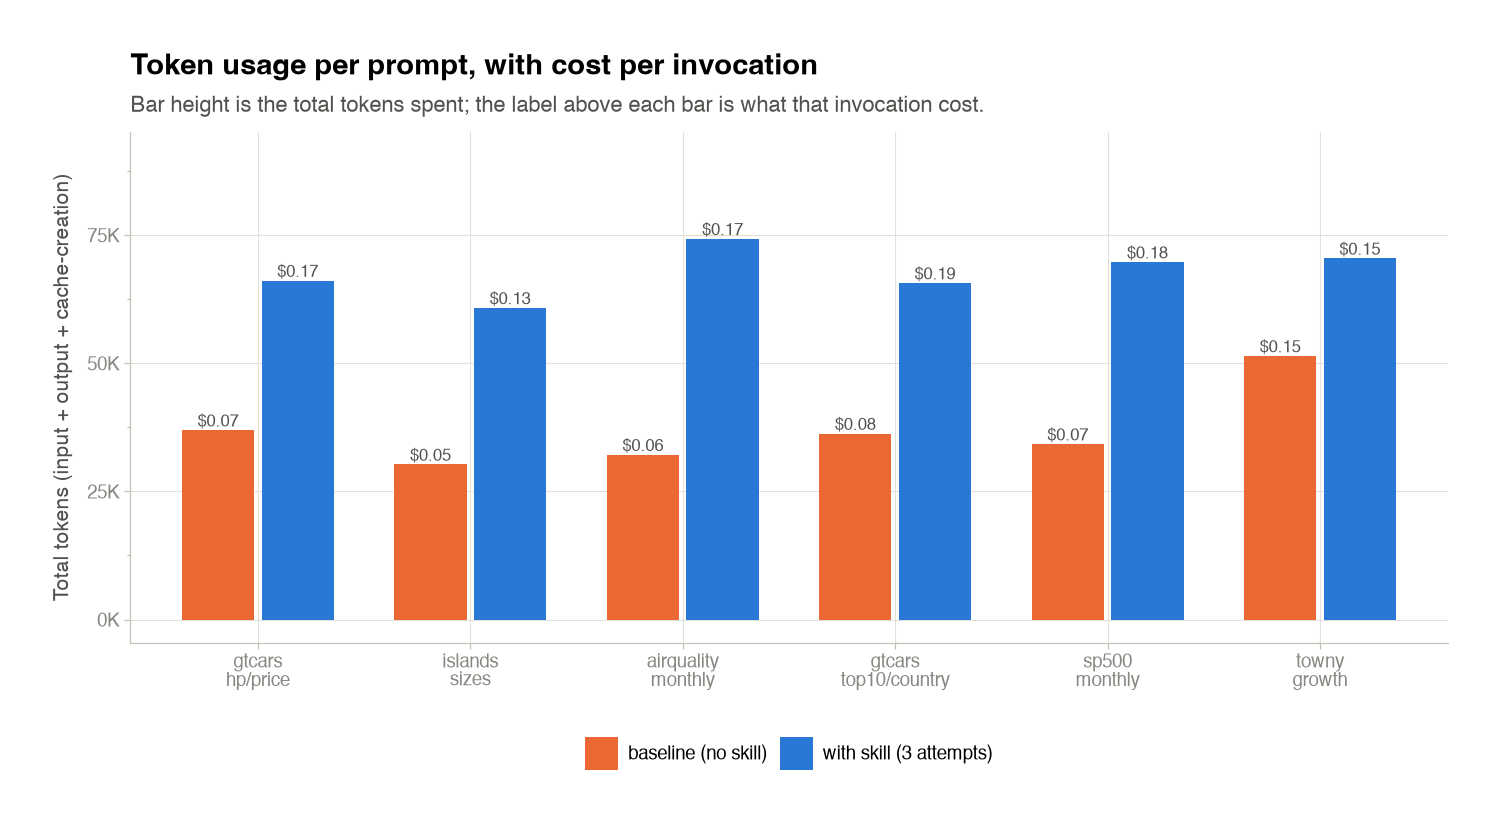
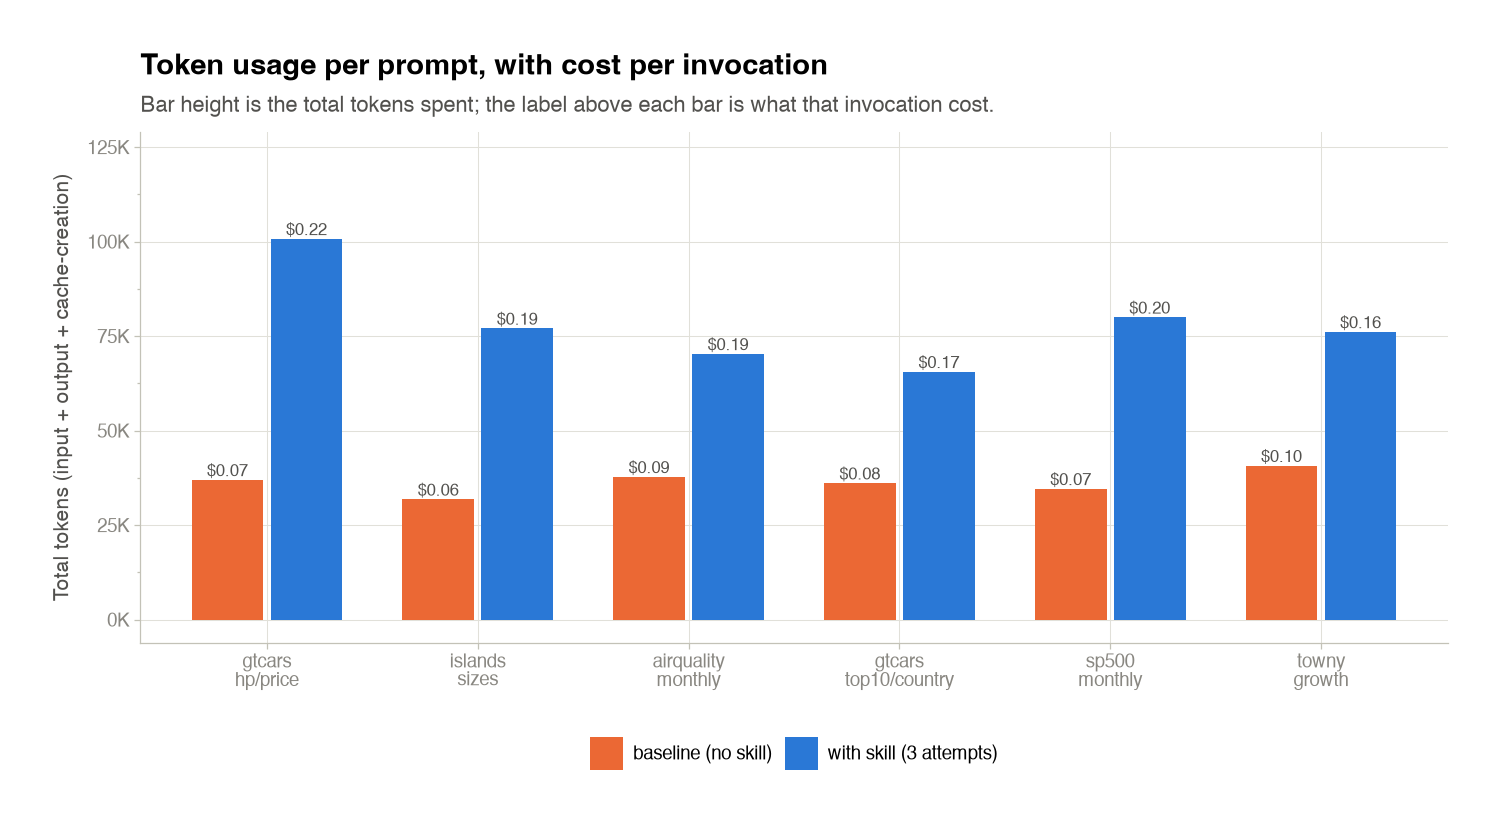
restore(published-metrics): revert to originals from user's backup
Restores the pre-drift plot PNGs and SUMMARY.md that I inadvertently
overwrote when I ran metrics_plots.render_all against the on-disk
eval-results-demo/ tree earlier in this branch.

What went wrong
---------------

metrics_plots.render_all -> render_skill -> collect_metrics rebuilds
metrics.json by rescoring every candidate table.py against ground truth
via runner.comparator.compare(). The candidate table.py files were the
originals (unchanged), but on this branch (which is based on origin/main
= f3c8758), the ground truths and comparator have moved on:

- 69d1afb — Redesign the 6 ground truths to match author-specified
  table conventions
- d6655d6 — Generalize the comparator: promote now-universal house
  rules to fixed checks
- 22a2dd1 — fix(comparator): replace exact-keyword caption check with
  a lenient one

So the same unchanged candidate outputs now score against a stricter,
different rubric. Result: house/prose/scripts dropped from ~82% to ~33%.
The drop was not caused by the skills getting worse — it was caused by
me passing old sample outputs through a rescoring pipeline that used
today's comparator + ground truths.

I should have used the backup's cached metrics.json values without
touching the on-disk demo tree.

What this commit does
---------------------

- Copies 8 plot PNGs from the user's local backup
  (~/Downloads/eval-results copy/{creator,house,prose,scripts}/plots/
  {usage,comparator_score}.png) into published-metrics/, renaming
[…]

diff --git a/published-metrics/SUMMARY.md b/published-metrics/SUMMARY.md
@@ -8,20 +8,20 @@ Averaged across every prompt and every invocation in this evaluation.
 
 | Skill | Score (with skill) | Score (baseline) | Lift | Cost / invocation (with skill) | Cost / invocation (baseline) |
 | --- | ---: | ---: | ---: | ---: | ---: |
-| creator | 9.9% | 8.4% | +1.5 | $0.0946 | $0.0726 |
-| house | 33.3% | 9.2% | +24.0 | $0.1330 | $0.0825 |
-| prose | 30.7% | 9.0% | +21.8 | $0.1637 | $0.0791 |
-| scripts | 32.8% | 8.0% | +24.7 | $0.1876 | $0.0676 |
+| creator | 21.7% | 24.9% | -3.2 | $0.0946 | $0.0726 |
+| house | 82.4% | 18.2% | +64.2 | $0.1308 | $0.0708 |
+| prose | 81.7% | 16.2% | +65.5 | $0.1898 | $0.0779 |
+| scripts | 81.5% | 21.0% | +60.5 | $0.1889 | $0.0695 |
 
 ## At a glance
 
-- **creator** — scored 9.9% on average (+1.5 vs. the unassisted baseline) at $0.0946 per invocation.
-- **house** — scored 33.3% on average (+24.0 vs. the unassisted baseline) at $0.1330 per invocation.
-- **prose** — scored 30.7% on average (+21.8 vs. the unassisted baseline) at $0.1637 per invocation.
-- **scripts** — scored 32.8% on average (+24.7 vs. the unassisted baseline) at $0.1876 per invocation.
+- **creator** — scored 21.7% on average (-3.2 vs. the unassisted baseline) at $0.0946 per invocation.
+- **house** — scored 82.4% on average (+64.2 vs. the unassisted baseline) at $0.1308 per invocation.
+- **prose** — scored 81.7% on average (+65.5 vs. the unassisted baseline) at $0.1898 per invocation.
+- **scripts** — scored 81.5% on average (+60.5 vs. the unassisted baseline) at $0.1889 per invocation.
 
 ## Leaders
 
-- **Highest average score:** `house` (33.3%).
-- **Highest lift over baseline:** `scripts` (+24.7).
+- **Highest average score:** `house` (82.4%).
+- **Highest lift over baseline:** `prose` (+65.5).
 - **Lowest cost per invocation:** `creator` ($0.0946).
